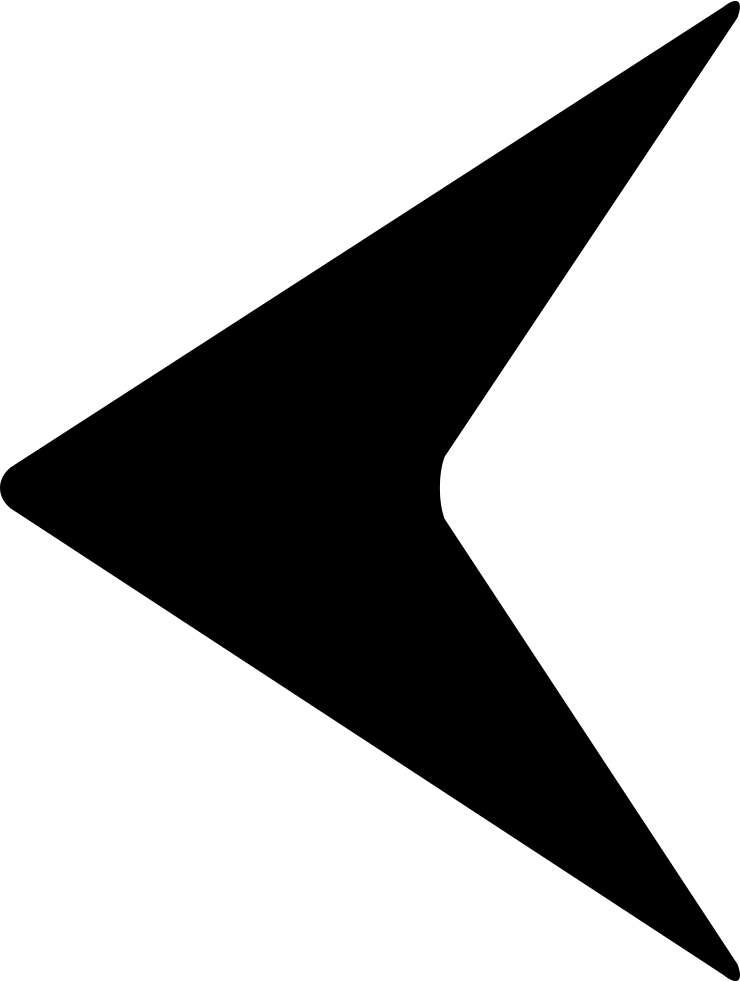
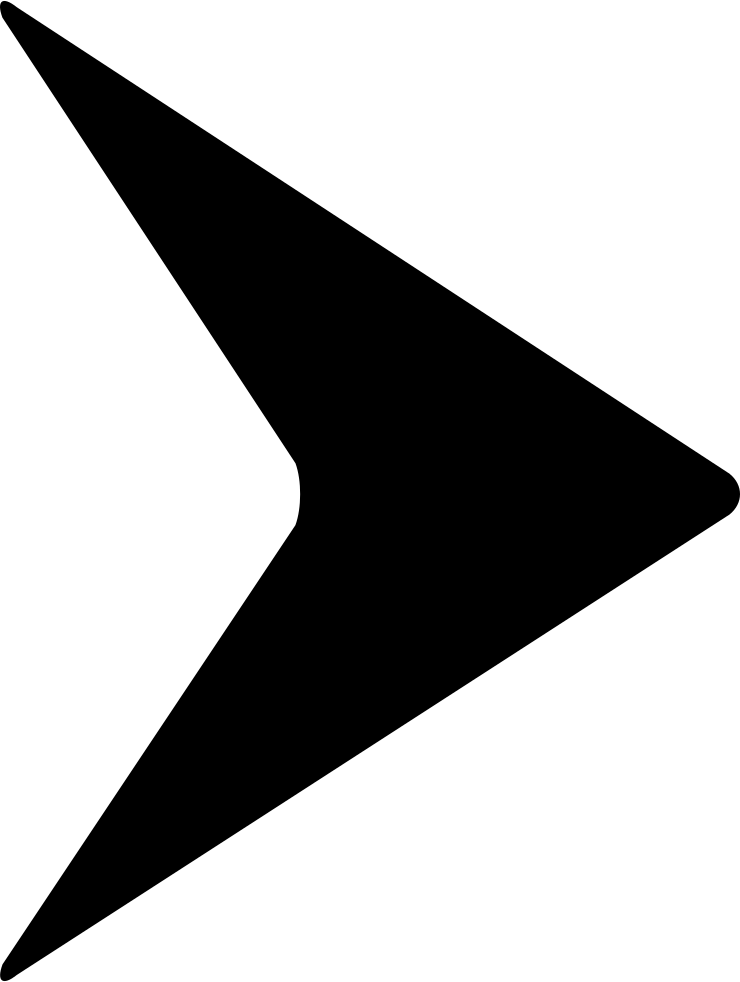
V0.3 - Přidání šipky

diff --git a/game.py b/game.py
@@ -3,6 +3,7 @@ from kivy.uix.widget import Widget
 from kivy.core.window import Window
 from kivy.vector import Vector
 from square import Square
+from arrow import Arrow
 
 squareArray = [
     [1, 1, 1, 1, 1, 1, 1, 1, 1, 1, 1, 1, 1, 1, 1, 1, 1, 1, 1, 1],
@@ -42,3 +43,13 @@ class MazeGame(Widget):
     def draw(self):
         for square in self.squares:
             square.draw()
+        val = 2
+        for index, row in enumerate(squareArray):
+            if val in row:
+                arrow = Arrow(self.default_width, self.default_height, (row.index(val)) * self.default_width, self.height - ((index+1) * self.default_height))
+                print(arrow.arrowW, arrow.arrowH, arrow.posX, arrow.posY)
+                self.add_widget(arrow)
+                arrow.draw()
+                print(f'{index}, {row.index(val)}')
+
+

diff --git a/arrow.py b/arrow.py
@@ -1,0 +1,25 @@
+from kivy.properties import NumericProperty
+from kivy.uix.widget import Widget
+from kivy.uix.image import Image
+from kivy.graphics import *
+
+
+class Arrow(Widget):
+    arrow_w = NumericProperty(0)
+    arrow_h = NumericProperty(0)
+    x = NumericProperty(0)
+    y = NumericProperty(0)
+
+    def __init__(self, arrow_w, arrow_h, x, y, **kwargs):
+        super(Arrow, self).__init__(**kwargs)
+        self.arrowW = arrow_w
+        self.arrowH = arrow_h
+        self.posX = x
+        self.posY = y
+
+    def draw(self):
+        with self.canvas:
+            Image(source='./arrow.png', pos=(self.posX + (0.1 * self.arrowW), self.posY + (0.1 * self.arrowH)), size=(0.8*self.arrowW, 0.8*self.arrowH))
+
+
+        
